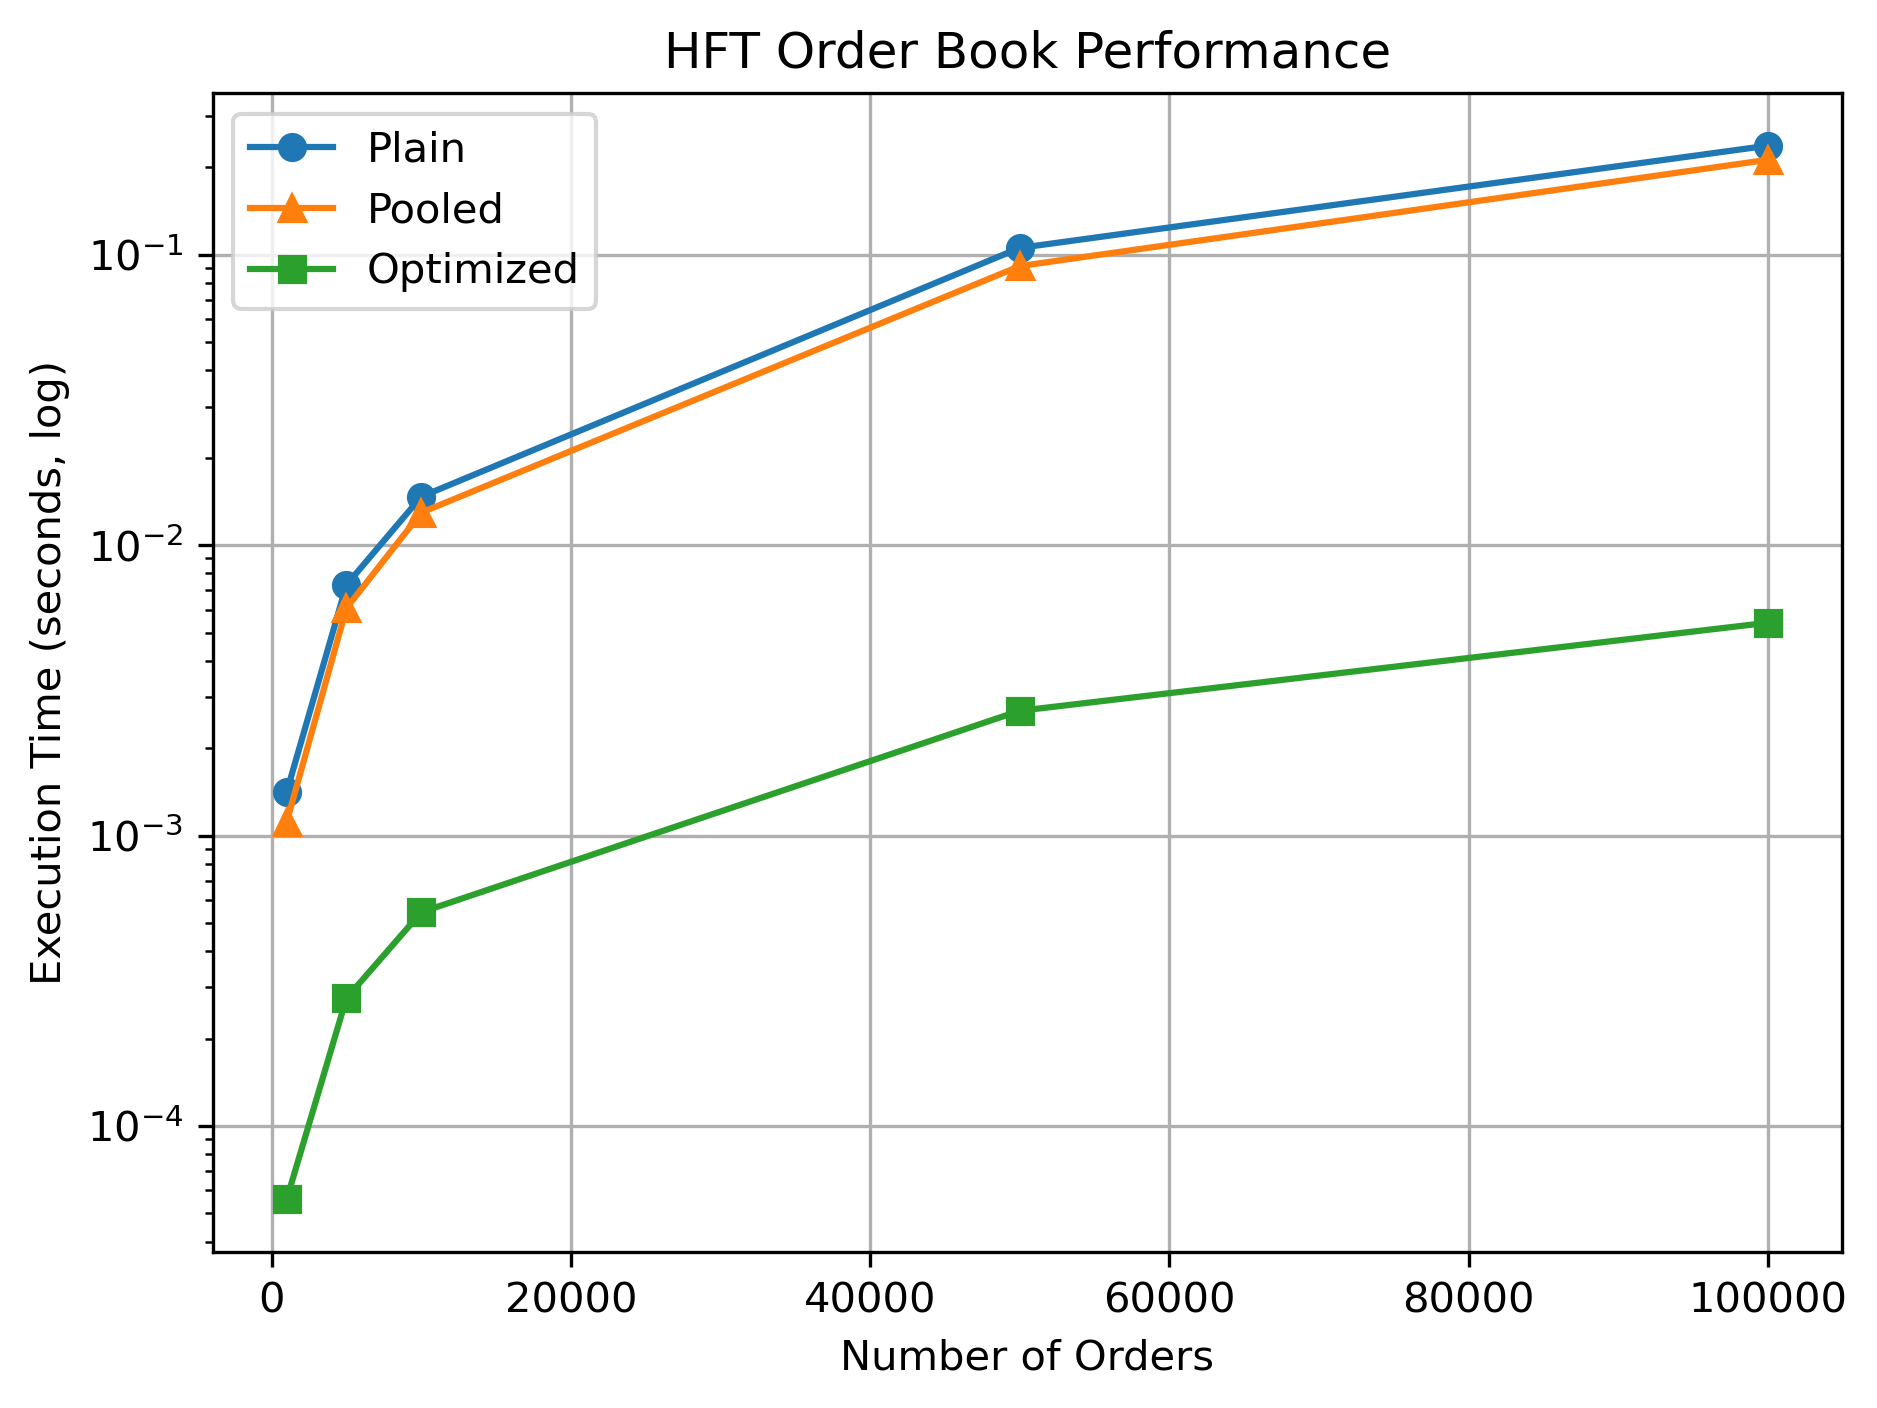
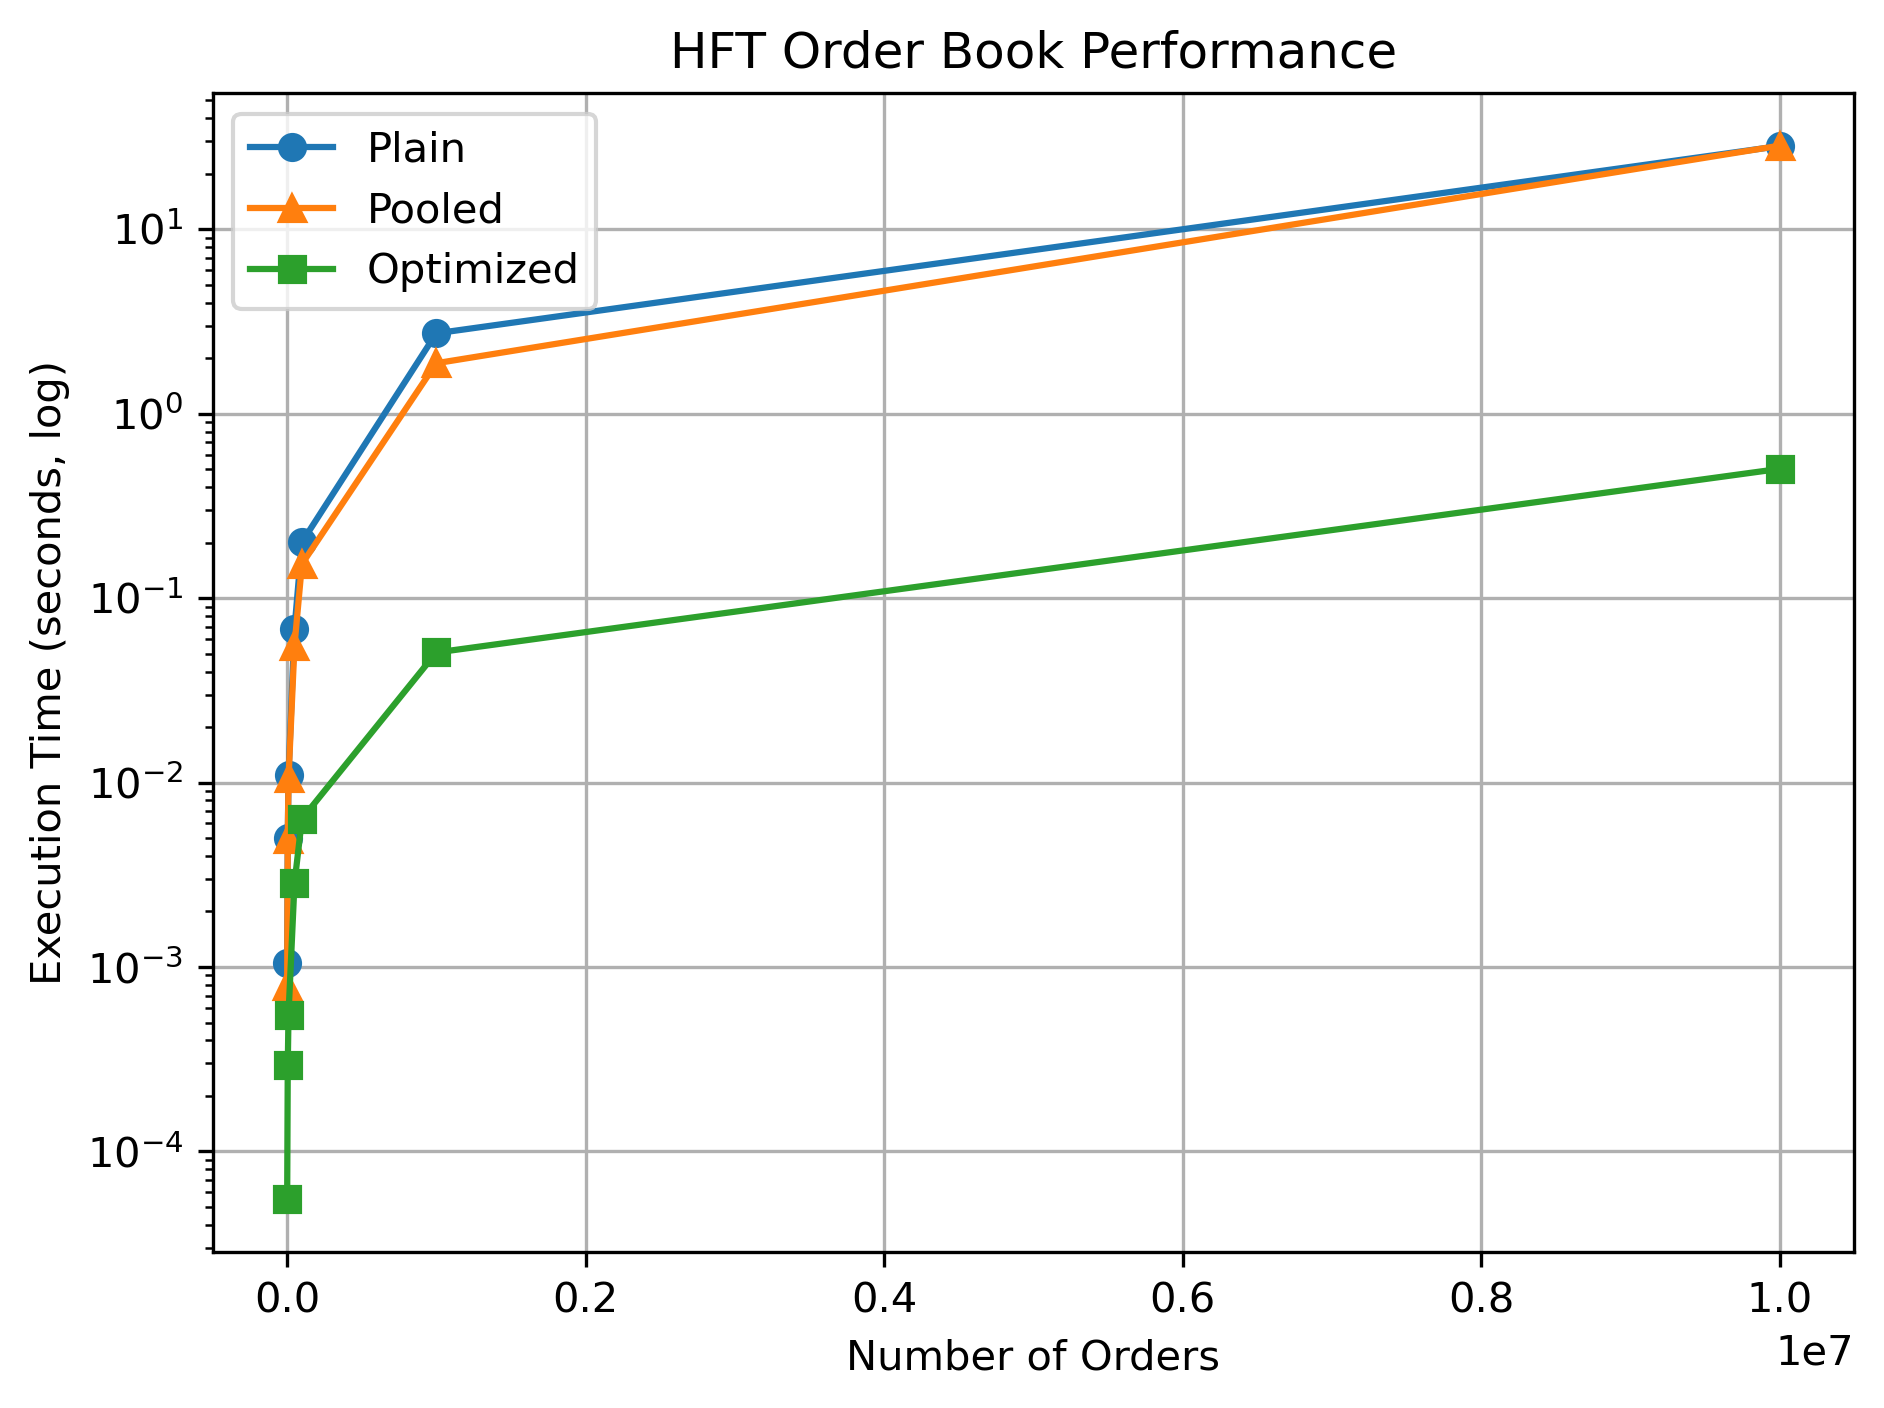
Final edits to phase5

diff --git a/phase_5/src/benchmark.cpp b/phase_5/src/benchmark.cpp
@@ -4,6 +4,7 @@
 #include <string>
 #include <chrono>
 #include <random>
+#include <optional>
 #include <cassert>
 #include "OrderBook.h"
 #include "OptimizedOrderBook.h"
@@ -158,7 +159,7 @@ std::pair<double, double> multi_time_pool(int numOrders, int numRuns, std::optio
 
 int main(int argc, char **argv)
 {
-    std::vector<int> vols{1000, 5000, 10000, 50000, 100000};
+    std::vector<int> vols{1000, 5000, 10000, 50000, 100000, 1000000};
 
     // Run unit tests
     if (argc > 1 && std::string(argv[1]) == "--unit")
@@ -181,7 +182,7 @@ int main(int argc, char **argv)
     // Run all implementations
     auto csv = fmt::output_file("../data/performance_results.csv");
     csv.print("orders,plain,optimized,pool\n");
-    int numRuns = 30;
+    int numRuns = 10;
     int seed = 50;
     for (int n : vols)
     {

diff --git a/phase_5/README.md b/phase_5/README.md
@@ -10,7 +10,7 @@ Our optimized order gave much better results. By pre-reserving memory and loop u
 ## Latency Results
 ![analysis/per_order_latency.png](analysis/per_order_latency.png)
 
-The latency in the plain and pooled version increases with the number of orders. Our optimized version has a much lower latency. At first the latency gets smaller with the number of orders, but then it increases again. This reflects the amount of overhead which does not scale with the number of orders.
+The latency in the plain and pooled version increases with the number of orders. Our optimized version has a much lower latency. It's latency actually gets better as number of orders increase. This reflects the amount of overhead which does not scale with the number of orders.
 
 ## Unit Test Results
 ```
